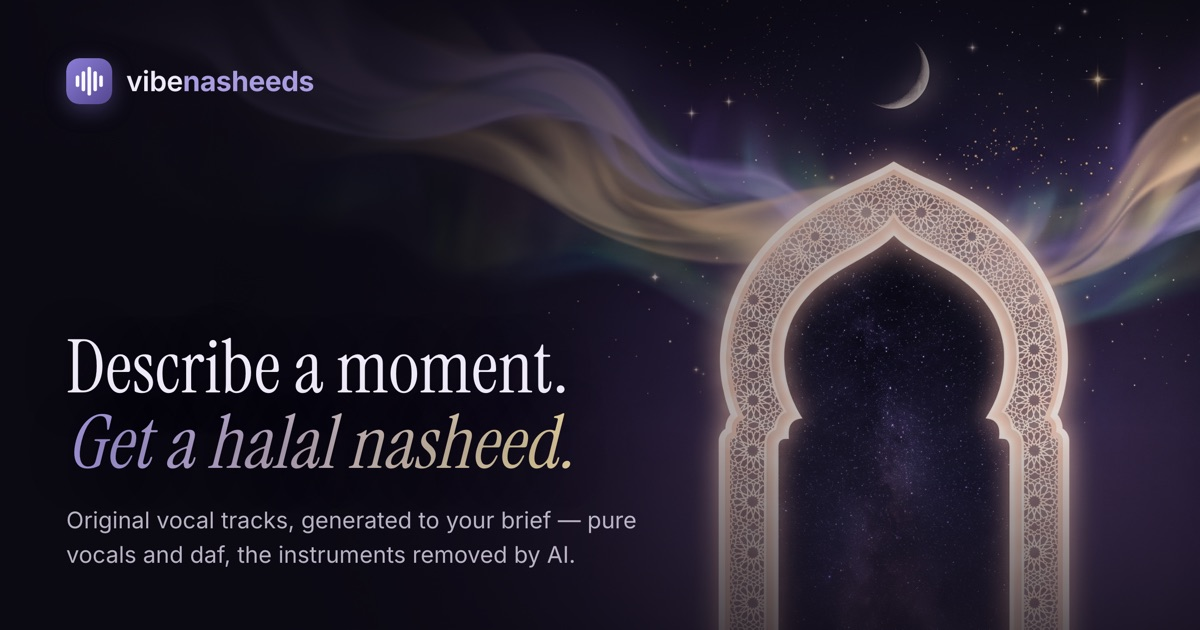
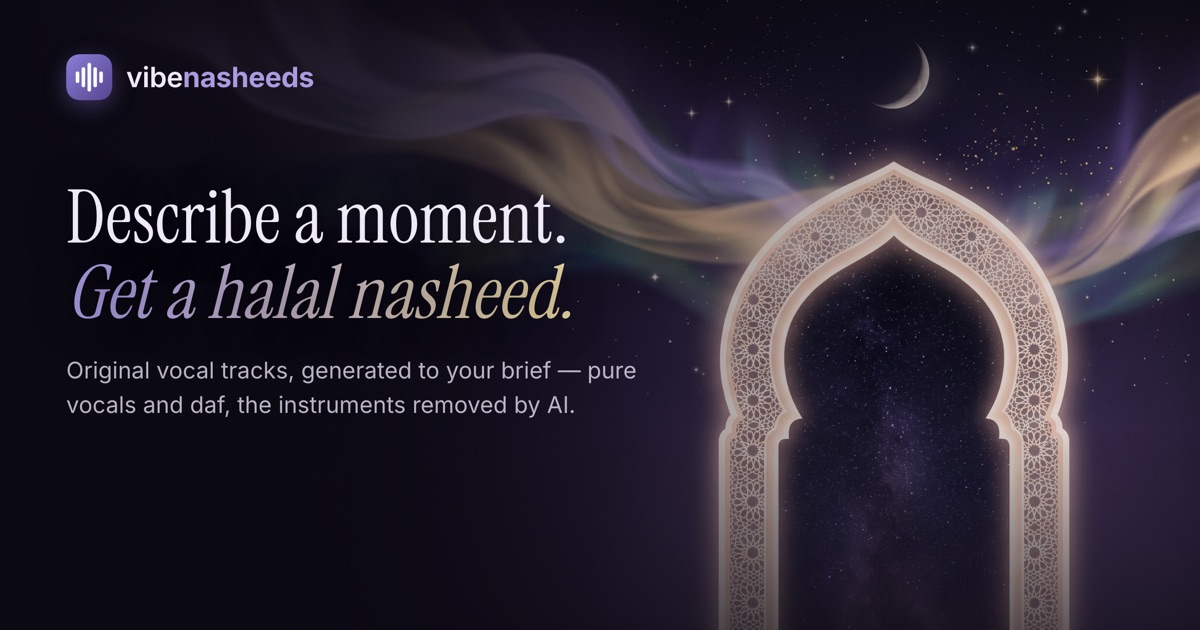
Center card text (nudged up); drop Awake + Planes from community rail

diff --git a/index.html b/index.html
@@ -22,7 +22,7 @@
     <meta name="twitter:title" content="vibenasheeds — halal music for Muslim creators" />
     <meta name="twitter:description" content="Describe a moment and get an original halal track for your content — vocals and daf only, no copyright strikes. Free to start." />
     <meta name="twitter:image" content="https://sakibahmed09.github.io/vibenasheeds/img/og-card.jpg" />
-    <script type="module" crossorigin src="./assets/index-ZKfgPYfU.js"></script>
+    <script type="module" crossorigin src="./assets/index-B3ks3Zt7.js"></script>
     <link rel="stylesheet" crossorigin href="./assets/index-CVRi8F8J.css">
   </head>
   <body>